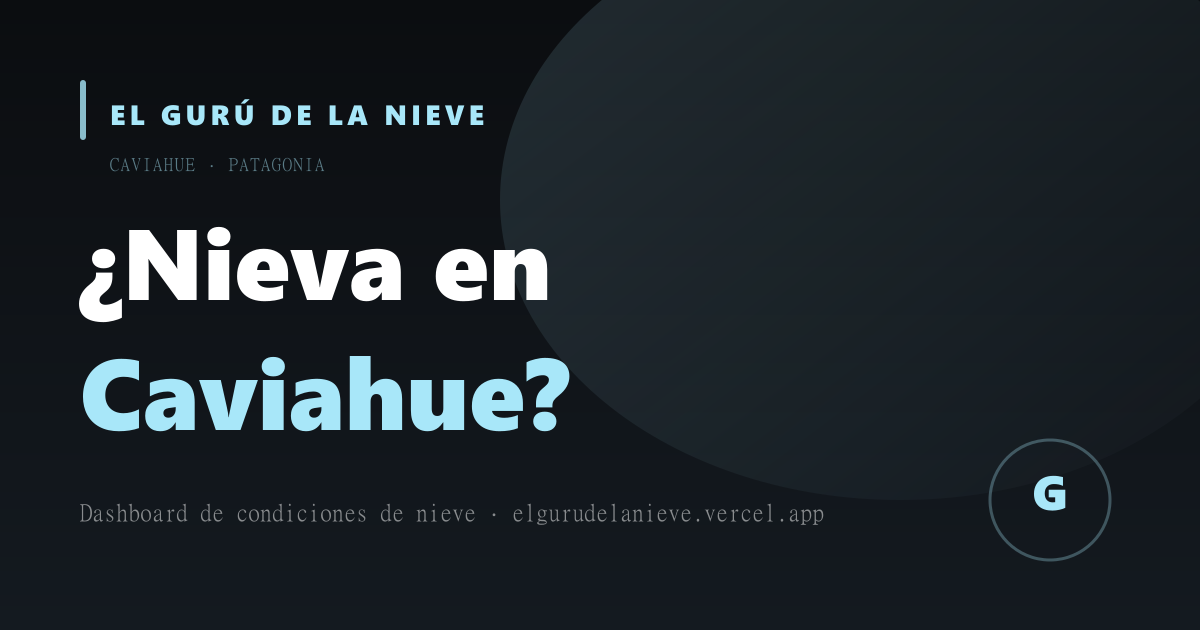
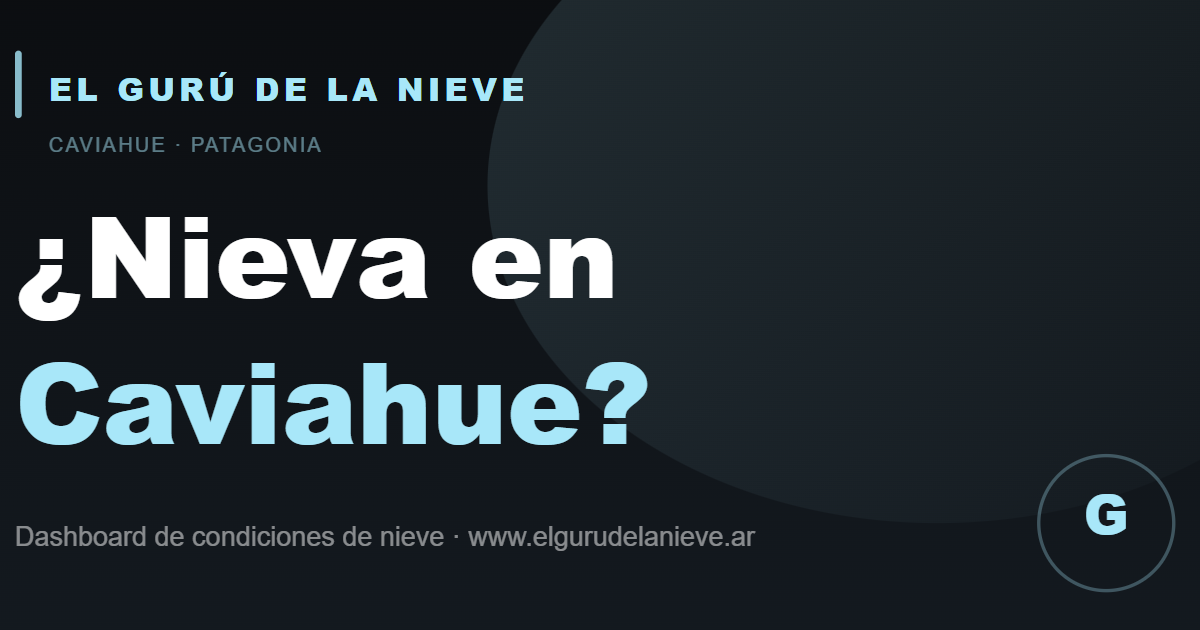
fix(coherence): remove conditionally, stable FAQ, no false zeros in SignalSummary
- Replace 'Condiciones conditionally favorables' with Spanish natural phrase

- Rewrite Home FAQ as stable methodological answers (40-60 words), no dynamic data

- Make SignalSummary fields nullable and display '—' for missing values

- Show 'Explicación detallada no disponible para esta corrida.' when no real signal data

- Update OG image SVG and PNG to www.elgurudelanieve.ar

- Validate no conditionally, no false zeros, no vercel.app in dist

diff --git a/src/lib/snow-engine.ts b/src/lib/snow-engine.ts
@@ -70,13 +70,21 @@ function extractSignalSummary(
 } {
   const getZoneSignal = (zh: HourlyForecast[]) => {
     const first = zh[0];
-    if (!first) return { temp: 0, precip: 0, snowfall: null, freezingLevel: 0, wind: 0, humidity: null };
+    if (!first)
+      return {
+        temp: null,
+        precip: null,
+        snowfall: null,
+        freezingLevel: null,
+        wind: null,
+        humidity: null,
+      };
     return {
-      temp: first.temp,
-      precip: first.precip,
+      temp: first.temp ?? null,
+      precip: first.precip ?? null,
       snowfall: first.snowfall ?? null,
-      freezingLevel: first.freezing_level,
-      wind: first.wind,
+      freezingLevel: first.freezing_level ?? null,
+      wind: first.wind ?? null,
       humidity: first.humidity ?? null,
     };
   };
@@ -186,7 +194,7 @@ function getMainAnswer(
       status: 'possible',
       label: 'nieve moderada',
       description:
-        'Probabilidad de nevada. Condiciones conditionally favorables.',
+        'Hay señal de nevada, pero depende de que la cota se sostenga.',
     };
   return {
     status: 'no',

diff --git a/src/lib/types.ts b/src/lib/types.ts
@@ -125,11 +125,11 @@ export interface SnowInterpretation {
 
 /** Signal traceability per period — data that drove the Guru's conclusion */
 export interface SignalSummary {
-  temperature: { village: number; mid: number; top: number };
-  precipitation: { village: number; mid: number; top: number };
+  temperature: { village: number | null; mid: number | null; top: number | null };
+  precipitation: { village: number | null; mid: number | null; top: number | null };
   snowfall: { village: number | null; mid: number | null; top: number | null };
-  freezingLevel: { village: number; mid: number; top: number };
-  wind: { village: number; mid: number; top: number };
+  freezingLevel: { village: number | null; mid: number | null; top: number | null };
+  wind: { village: number | null; mid: number | top: number | null };
   humidity: { village: number | null; mid: number | null; top: number | null };
 }
 